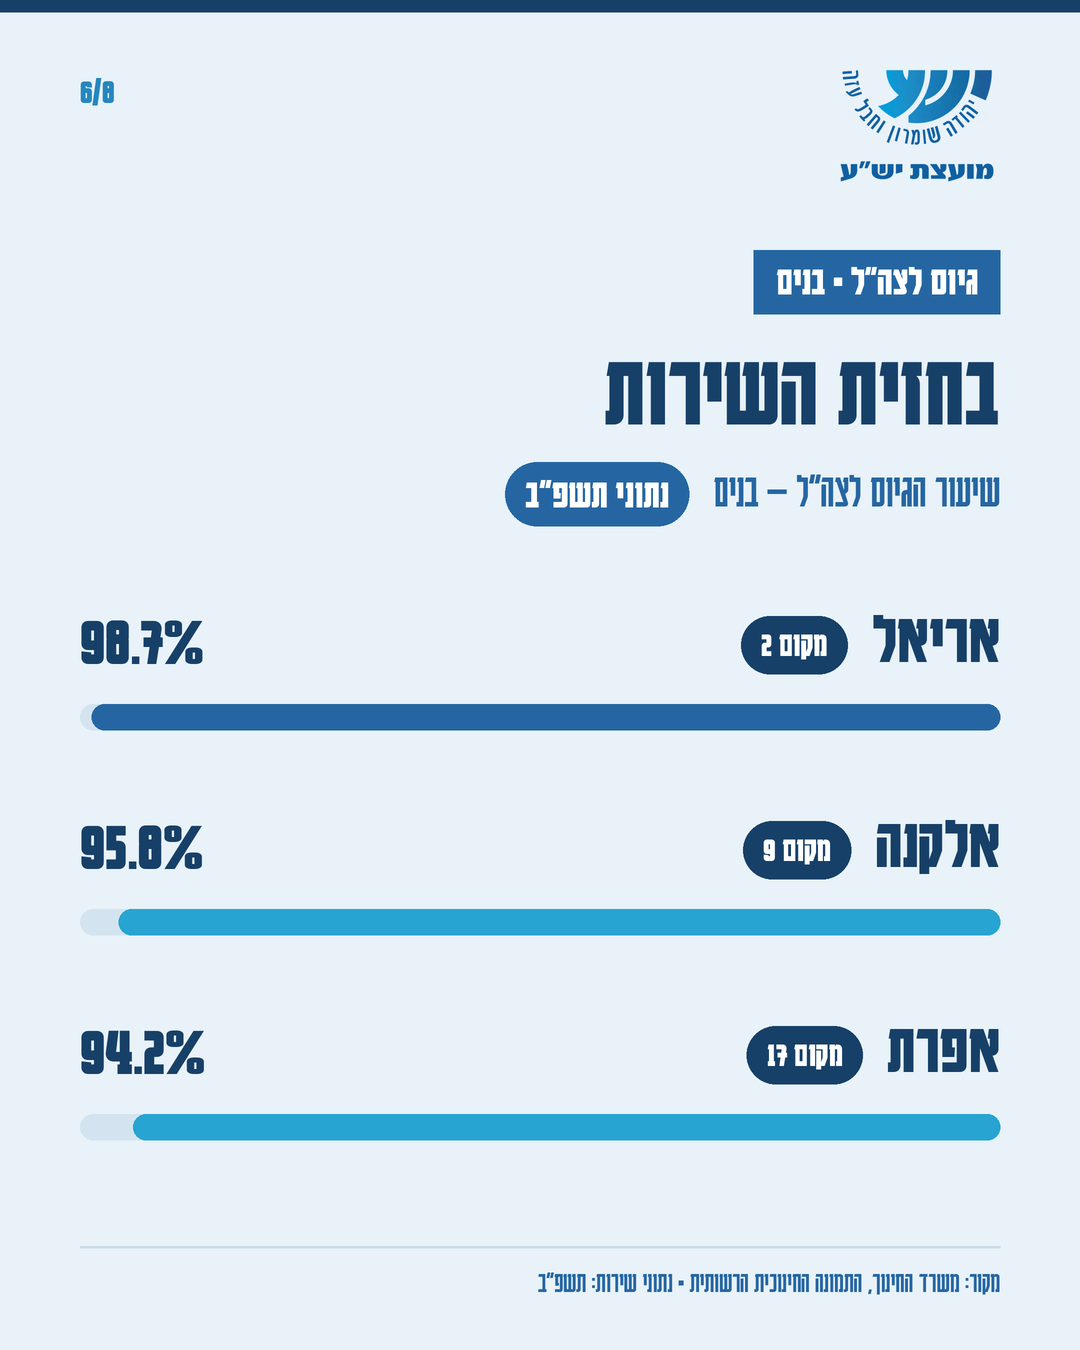
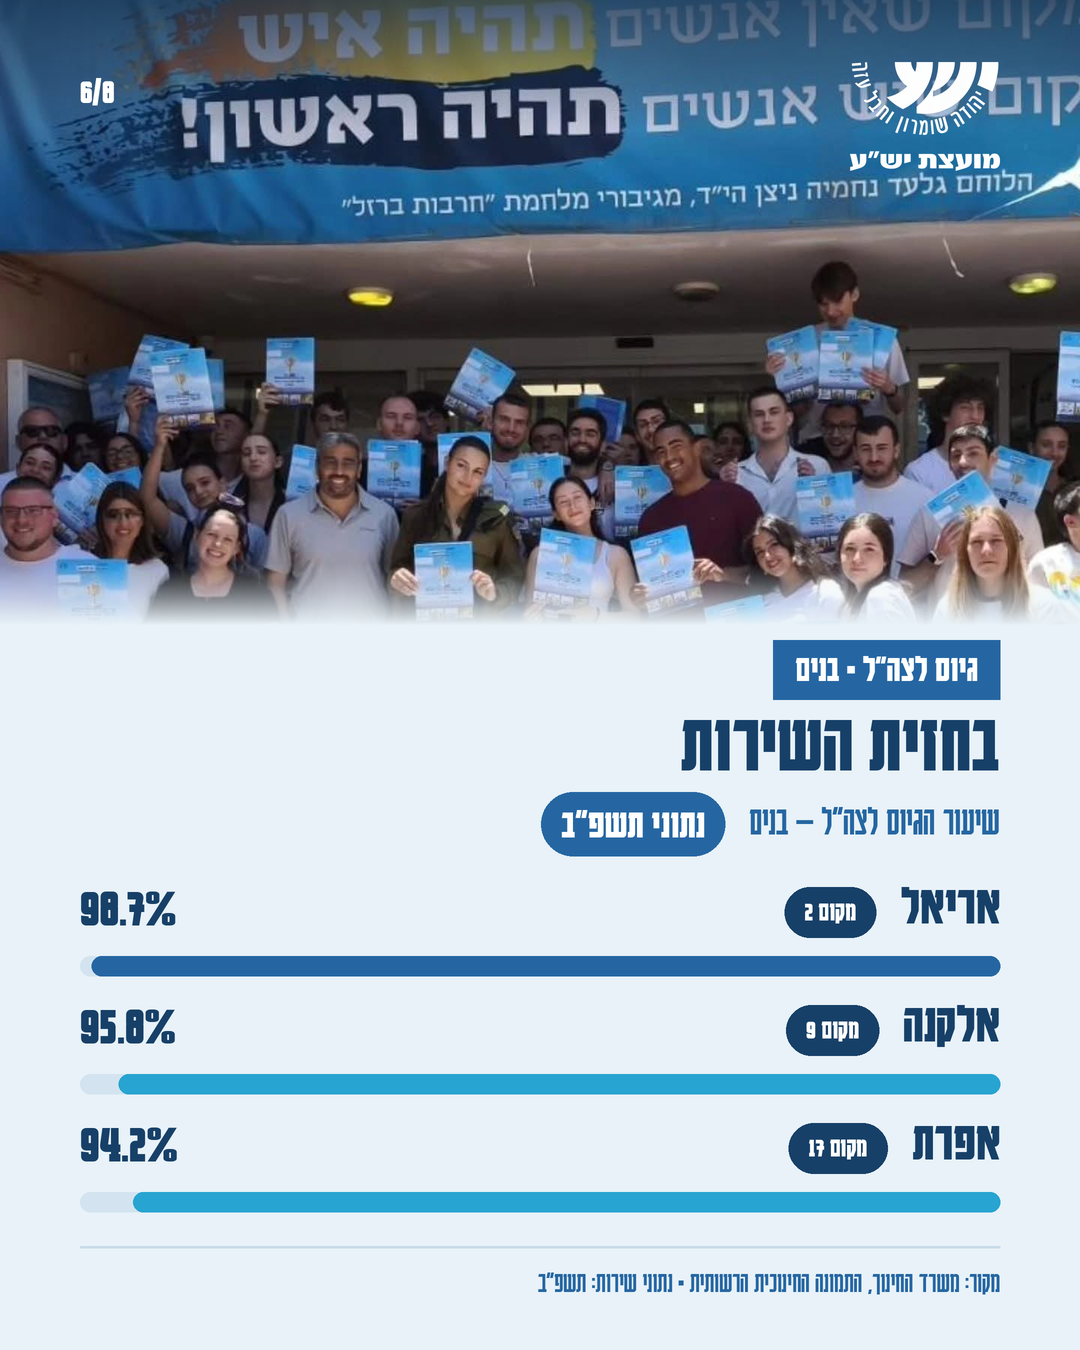
Add photo to Yesha carousel IDF enlistment slide
Claude-Session: https://claude.ai/code/session_01RS3QK6pAd3YhyAuXZSJjH1

diff --git a/content-kit/yesha/2026-10-education-carousel-v2/make.py b/content-kit/yesha/2026-10-education-carousel-v2/make.py
@@ -87,6 +87,7 @@ PHOTO_COVER = UP + '9dadb569-image.jpg'
 PHOTO_EFRAT = UP + '6168c27e-image.jpg'
 PHOTO_SHOMRON = UP + '76ebff00-image.jpg'
 PHOTO_ELKANA = UP + '177480c4-image.jpg'
+PHOTO_ARMY = UP + 'ac7bf51a-image.jpg'
 
 
 def bg_at(y):
@@ -304,13 +305,17 @@ def year_badge(d, x_right, y, dark):
 
 # 6 — IDF enlistment, men (2022 cohort data)
 def s6():
-    img = canvas(False); d = chrome(img, 6, False, SRC_SERVICE)
-    tag(d, 250, 'גיוס לצה״ל · בנים', 42)
-    text(d, (W - M, 335), 'בחזית השירות', 104, NAVY)
-    text(d, (W - M, 465), 'שיעור הגיוס לצה״ל — בנים', 48, BLUE, bold=False)
-    year_badge(d, W - M - tw(d, 'שיעור הגיוס לצה״ל — בנים', 48, False) - 24, 462, False)
-    for i, (nm, pct, rk) in enumerate([('אריאל', 98.7, 'מקום 2'), ('אלקנה', 95.8, 'מקום 9'), ('אפרת', 94.2, 'מקום 17')]):
-        bar_row(d, 600 + i * 205, nm, pct, rk, strong=(i == 0))
+    img = canvas(False)
+    photo(img, PHOTO_ARMY, 625, 0.0, ICE, fade_from=0.90, top_dark=175)
+    d = chrome(img, 6, False, SRC_SERVICE, on_photo=True)
+    tag(d, 640, 'גיוס לצה״ל · בנים', 38)
+    text(d, (W - M, 698), 'בחזית השירות', 84, NAVY)
+    sub = 'שיעור הגיוס לצה״ל — בנים'
+    text(d, (W - M, 798), sub, 42, BLUE, bold=False)
+    year_badge(d, W - M - tw(d, sub, 42, False) - 24, 792, False)
+    rows = [('אריאל', 98.7, 'מקום 2'), ('אלקנה', 95.8, 'מקום 9'), ('אפרת', 94.2, 'מקום 17')]
+    for i, (nm, pct, rk) in enumerate(rows):
+        bar_row(d, 875 + i * 118, nm, pct, rk, strong=(i == 0), k=0.78)
     save(img, 6)
 
 
